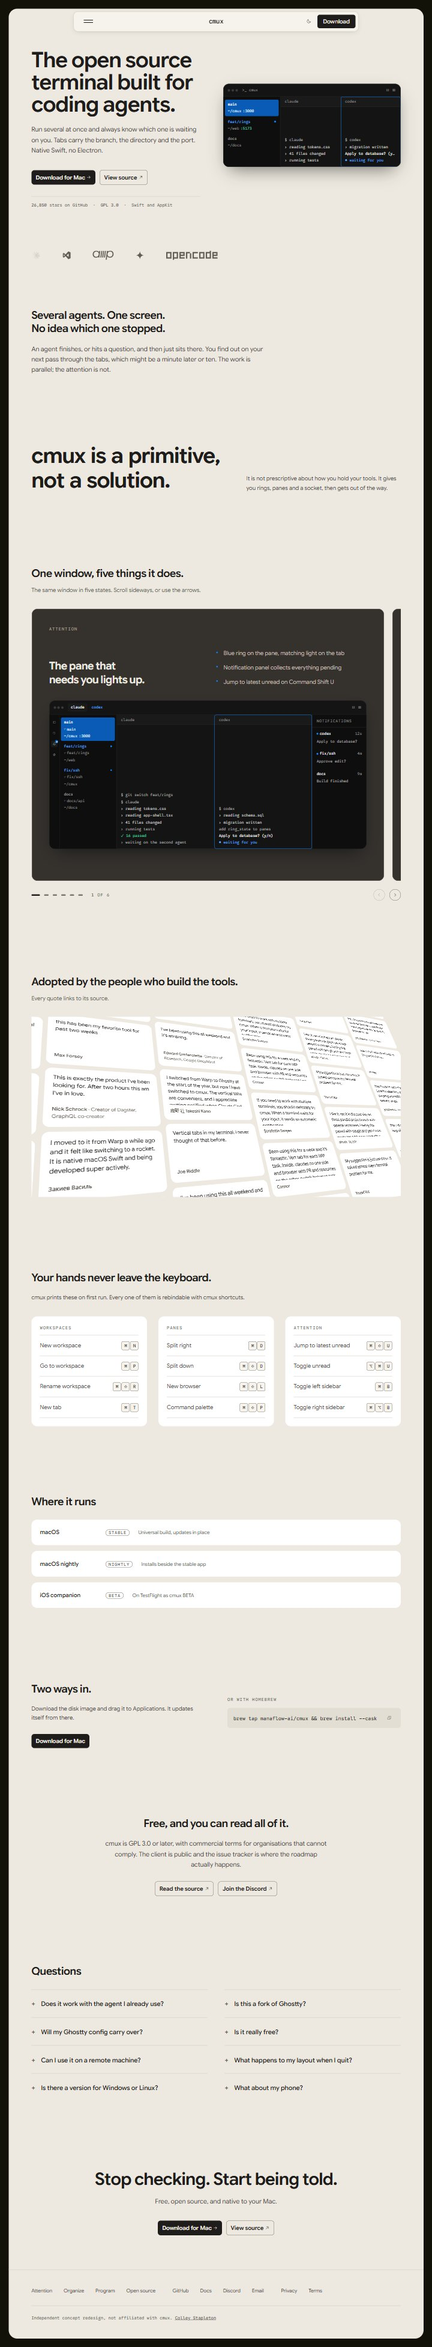
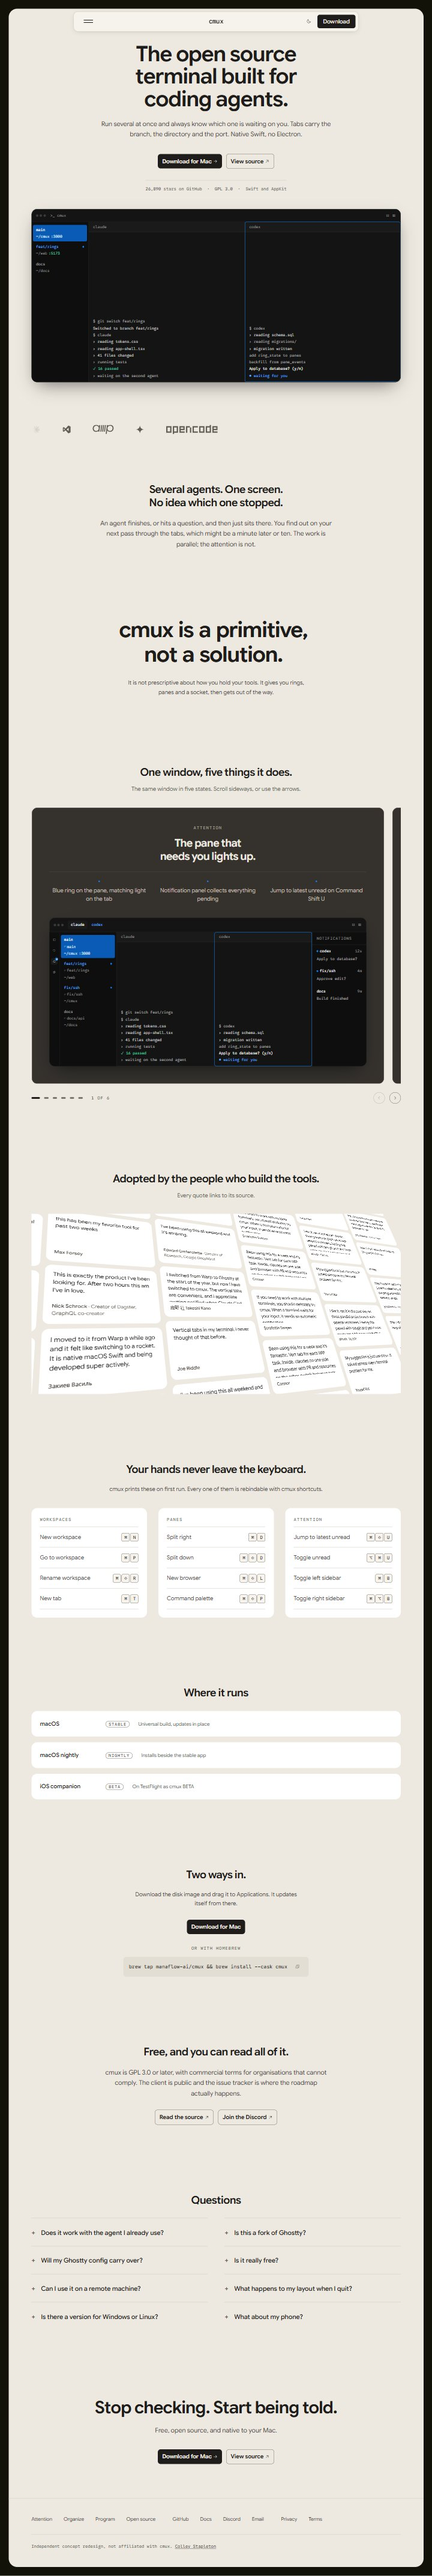
docs(web): refresh the shots for the centred page
Every after image reshot against the centred build: the hero stacked,
the panels with their points in even columns, install centred, and both
full page strips. The before images are untouched.

Numbers in the PR body corrected to what the page now measures, 8,579
and 10,933 pixels rather than 7,818 and 10,982. Centring the hero put
back some of what the carousel took off, and the body says so.

diff --git a/docs/design/PR-BODY.md b/docs/design/PR-BODY.md
@@ -14,12 +14,12 @@ Shot from two local builds running side by side — the previous revision and th
 
 | | Before | After |
 |---|---|---|
-| Desktop, 1440 by 900 | [10,695px · 11.88 viewports](shots/desktop-light-before.jpg) | [7,818px · 8.69 viewports](shots/desktop-light-after.jpg) |
+| Desktop, 1440 by 900 | [10,695px · 11.88 viewports](shots/desktop-light-before.jpg) | [8,579px · 9.53 viewports](shots/desktop-light-after.jpg) |
 | Desktop, dark | [before](shots/desktop-dark-before.jpg) | [after](shots/desktop-dark-after.jpg) |
-| Mobile, 390 by 844 | [16,218px · 19.22 viewports](shots/mobile-light-before.jpg) | [10,982px · 13.01 viewports](shots/mobile-light-after.jpg) |
+| Mobile, 390 by 844 | [16,218px · 19.22 viewports](shots/mobile-light-before.jpg) | [10,933px · 12.95 viewports](shots/mobile-light-after.jpg) |
 | Mobile, dark | [before](shots/mobile-dark-before.jpg) | [after](shots/mobile-dark-after.jpg) |
 
-**A quarter shorter on desktop, a third shorter on a phone**, with more of the product shown rather than less.
+**A fifth shorter on desktop, a third shorter on a phone**, with more of the product shown rather than less. The carousel took off more than that; centring the hero put some of it back, since the window moved below the copy instead of beside it.
 
 Details, at full resolution:
 
@@ -28,9 +28,11 @@ Details, at full resolution:
 | Hero | [light](shots/hero-light.png) · [dark](shots/hero-dark.png) |
 | The carousel in place | [light](shots/carousel-light.png) · [dark](shots/carousel-dark.png) |
 | Panel: attention | [light](shots/panel-attention-light.png) · [dark](shots/panel-attention-dark.png) |
+| Panel: panes | [light](shots/panel-browser-light.png) |
 | Panel: programmability | [light](shots/panel-program-light.png) |
 | Panel: foundation | [light](shots/panel-foundation-light.png) |
 | Questions, two columns | [light](shots/questions-light.png) |
+| Install, centred | [light](shots/install-light.png) |
 
 Direction study, all three rendered side by side: [`docs/design/direction-study.html`](direction-study.html) — open it in a browser. The reasoning behind the choice is in [`docs/design/cmux-web-rationale.md`](cmux-web-rationale.md).
 
@@ -55,7 +57,7 @@ Two decisions worth reviewing:
 - [x] Keyboard path works; focus is visible and ordered
 - [x] Light and dark both checked
 - [x] Respects `prefers-reduced-motion`
-- [x] Contrast meets WCAG AA — audited at 1440, 760 and 390 in both themes; 514, 503 and 465 text carrying elements, 0 failures
+- [x] Contrast meets WCAG AA — audited at 1440, 760 and 390 in both themes; 523, 512 and 470 text carrying elements, 0 failures
 - [x] No secrets, tokens or `.env` values in the diff
 
 ## Verification
